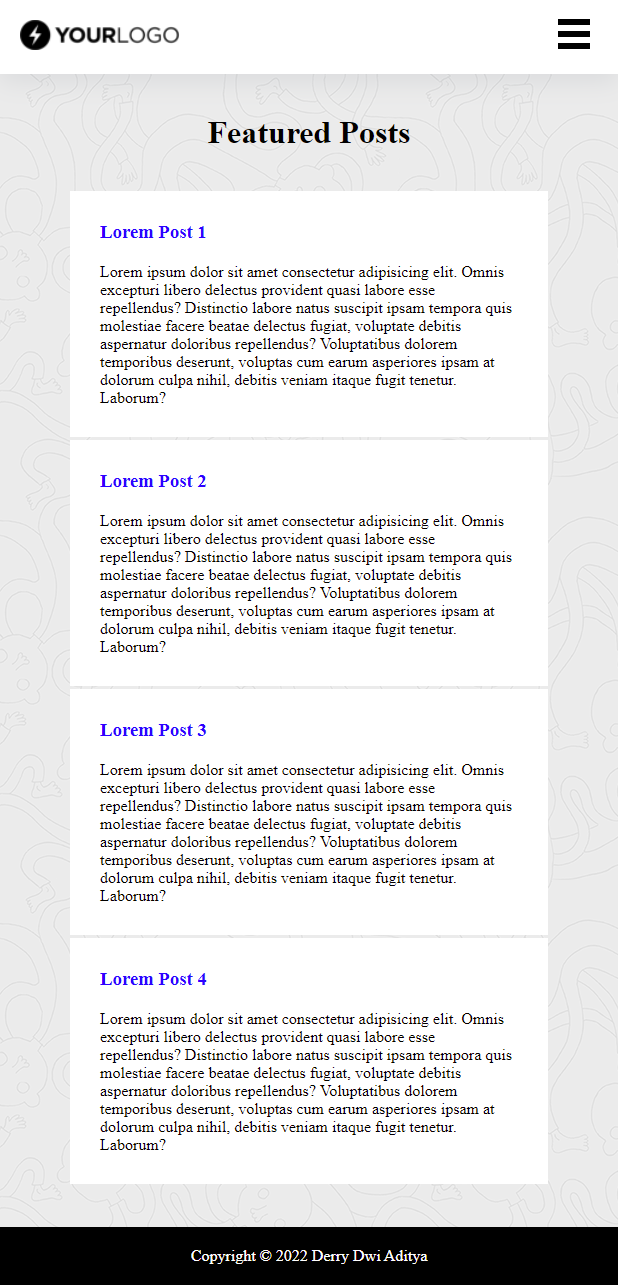
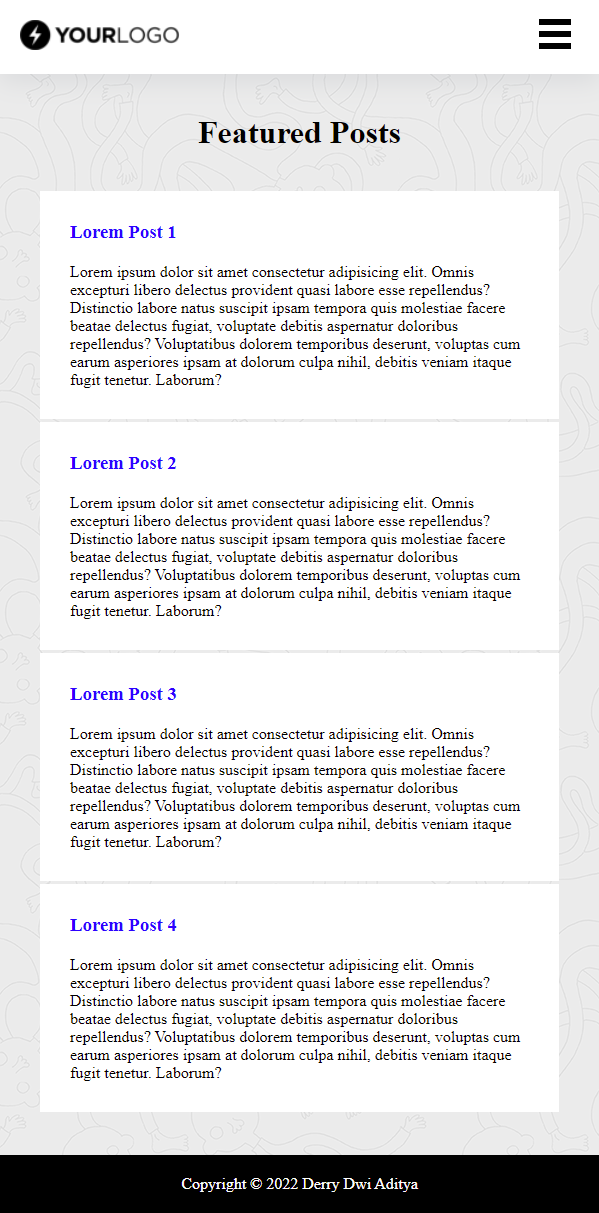
update responsive breakpoint & ss task section 6

diff --git a/6_CSS/praktikum/soal_2/assets/css/style.css b/6_CSS/praktikum/soal_2/assets/css/style.css
@@ -89,7 +89,7 @@ footer {
 /* Extra small devices (phones, 600px and down) */
 @media only screen and (max-width: 600px) {
   .card {
-    margin: 3px 10px;
+    margin: 3px 0;
   }
 }
 
@@ -97,13 +97,6 @@ footer {
 @media only screen and (min-width: 600px) {
   .card {
     margin: 3px 30px;
-  }
-}
-
-/* Medium devices (landscape tablets, 768px and up) */
-@media only screen and (min-width: 768px) {
-  .card {
-    margin: 3px 60px;
   }
 
   .nav-link {
@@ -121,6 +114,13 @@ footer {
 
   .bars {
     display: none;
+  }
+}
+
+/* Medium devices (landscape tablets, 768px and up) */
+@media only screen and (min-width: 768px) {
+  .card {
+    margin: 3px 60px;
   }
 }
 
